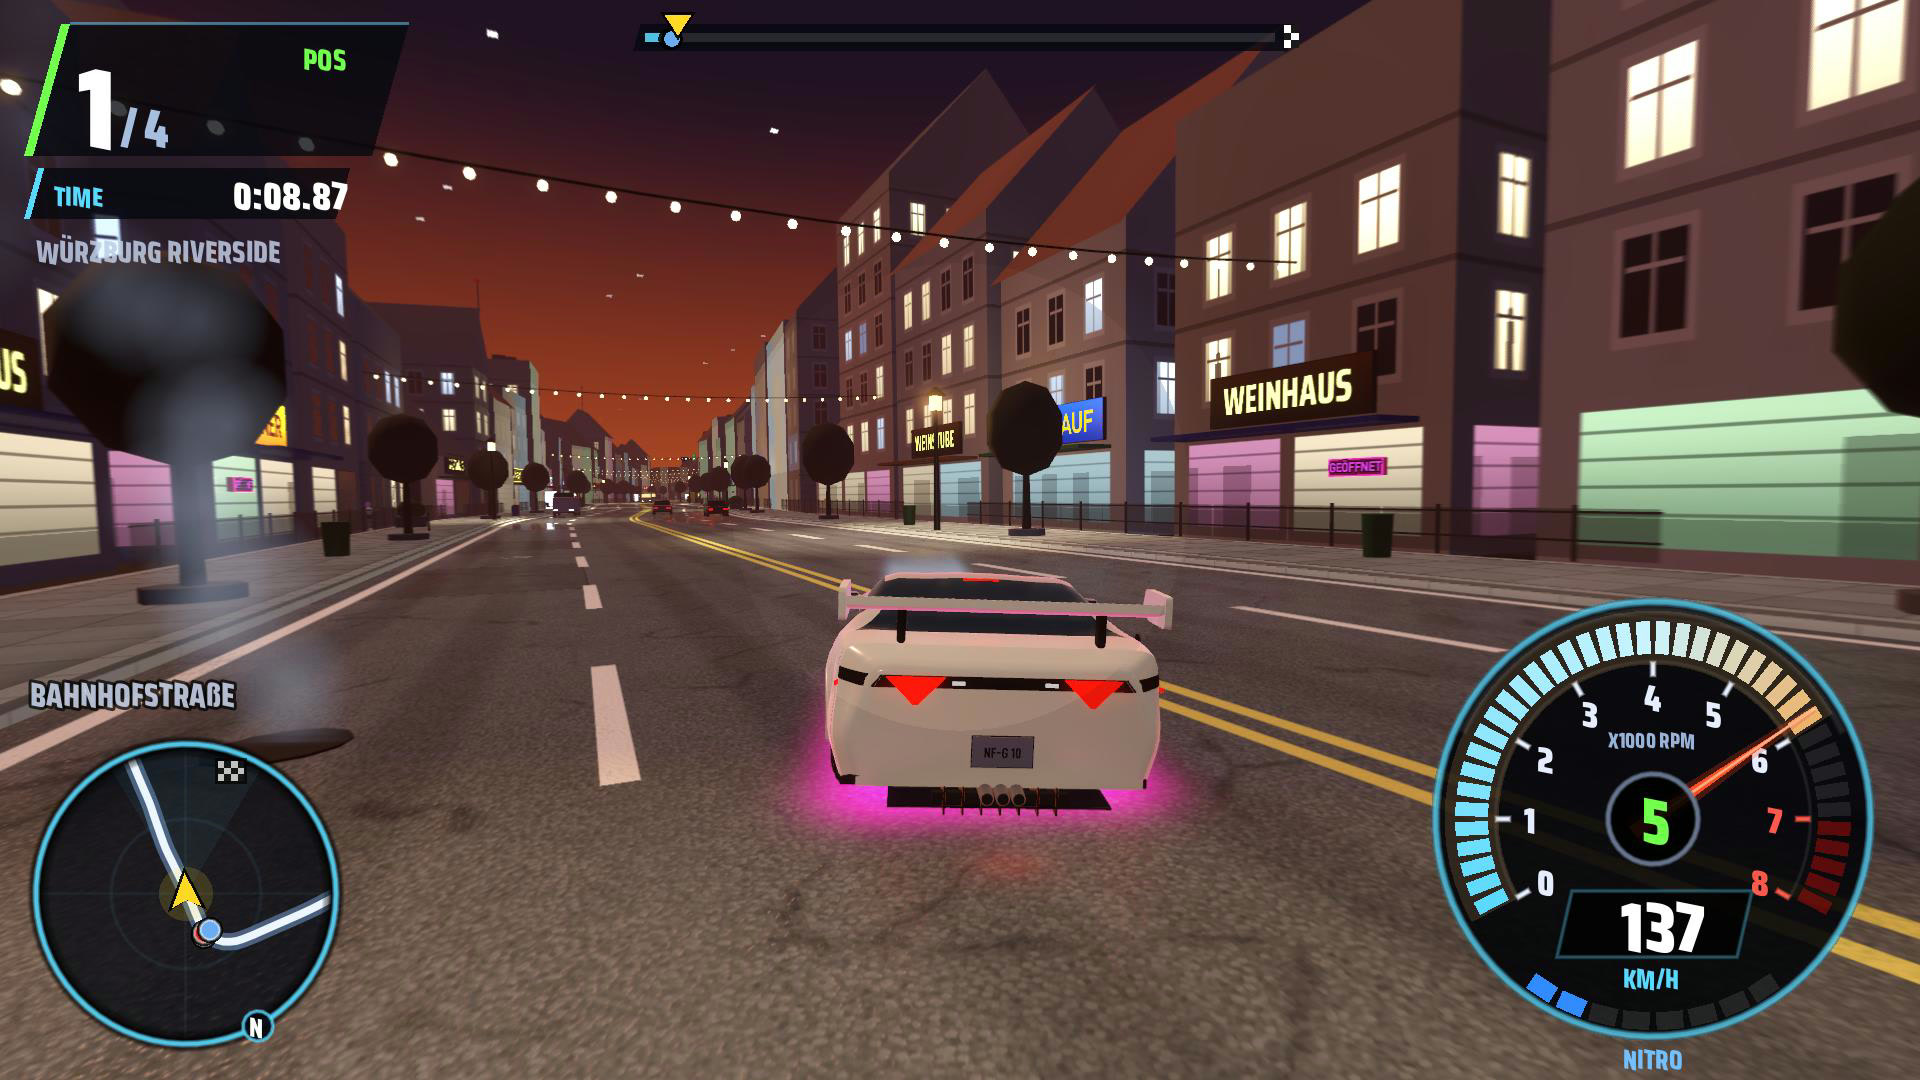
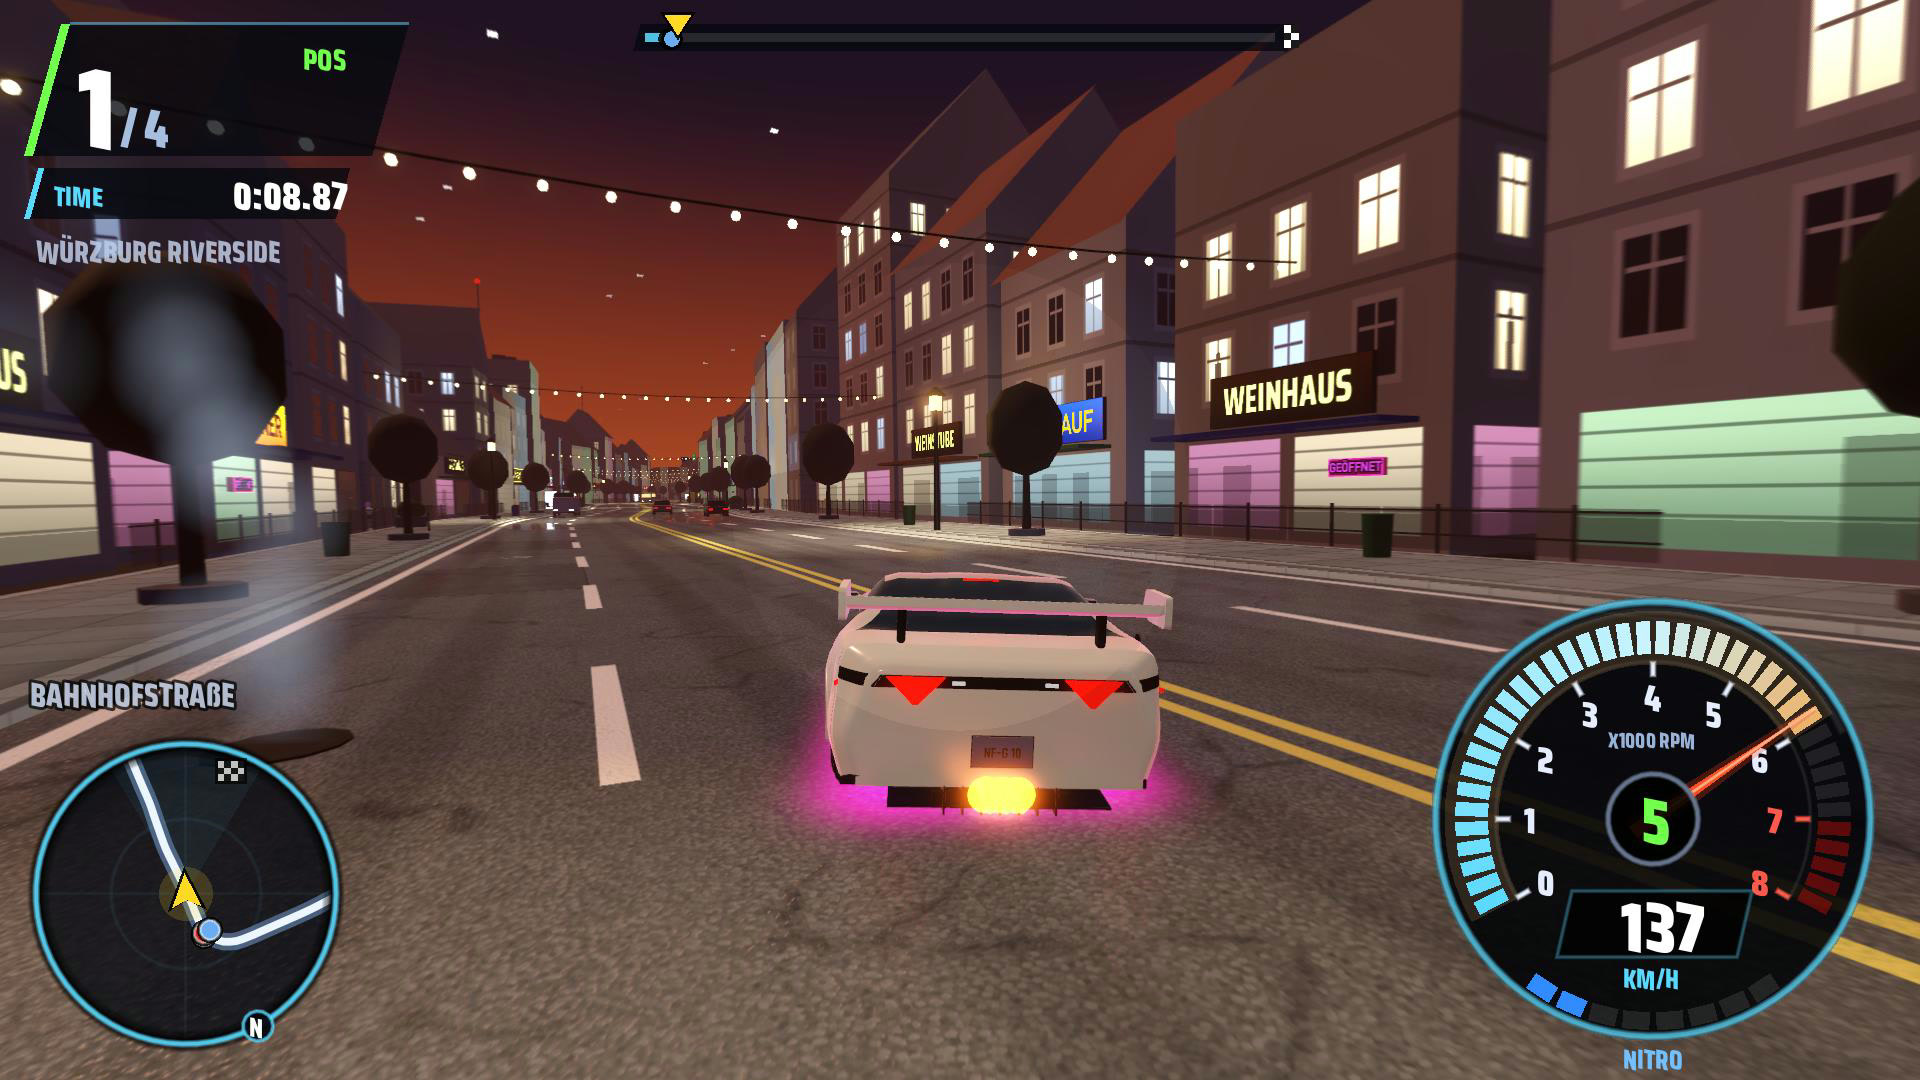
Short als Skizzen-Trailer ohne Stimme, Screenshots ohne Lichtteppich
- Aufnahmeschalter --nopool: kein Lichtteppich vor dem Auto (war in Aufnahmen ein heller Kasten auf der Straße)
- promo_overlays --sketch: schlichte Einblendungen in Kleinschrift, Ortsschilder, Browserfenster
- Screenshots 01-06 und Short-Titelbild neu aufgenommen, Texte ohne KI-Stimme

diff --git a/release/SHORTS.md b/release/SHORTS.md
@@ -117,6 +117,17 @@ Titel: Quer durch Deutschland – die Karriere
 Beschreibung: Jeder Sieg öffnet die nächste Stadt. Regen, Nebel, Natriumlicht, Neon: jede Strecke mit eigener Nacht.
 
 ## 13. Im Browser spielbar (Englisch, Stand 2.27)
+
+**Aktuelle Fassung: Skizzen-Trailer** `release/need_for_geschwindigkeit_short_sketch_en.mp4` (25 s, 1080×1920).
+Keine Stimme, kaum Text (Kleinschrift, kein Neon): Schwarzbild „made a street racing game.“ → Start mit „GO!“ genau
+auf dem Drop → Browserfenster „it runs in your browser.“ → Würzburg und Kreuzberg nur mit Ortsschild → Oberbaumbrücke
+mit Nitro, Regen in den Tunnel, zwei Drifts, Schranke, Zug → Lackraster im Browserfenster → „need for geschwindigkeit ·
+free · onehumanity.itch.io“. Musik „Drift Phonk“ von sub_clair (96 BPM, ein Schlag 0,625 s, Drop bei 10,03 s im Stück),
+jede Szene zwei oder drei Schläge lang, Spielton leise darunter. Aufgenommen mit `--nopool` (ohne Lichtteppich vor dem
+Auto, der in Aufnahmen als heller Kasten auf der Straße störte), Texte mit `tools/promo_overlays.tscn -- --sketch`.
+Die Fassungen unten (Neon-Überschriften, Sprecherstimme) sind verworfen: gereimter Text und KI-Stimme wirkten gezwungen.
+
+### Erste Fassung (verworfen)
 Datei: `release/need_for_geschwindigkeit_short_browser_en.mp4` (1080×1920, 30,9 s, nur Spielton, liegt nicht im Repo).
 Schnitt auf 140 BPM (ein Takt = 1,714 s), 18 Takte. Gebaut mit `tools/promo_overlays.gd` (Browserfenster, Texte in Saira)
 und Aufnahmen per `--write-movie` (Hochformat, Musik aus mit `--nomusic`, Drift mit `--drifty`).
